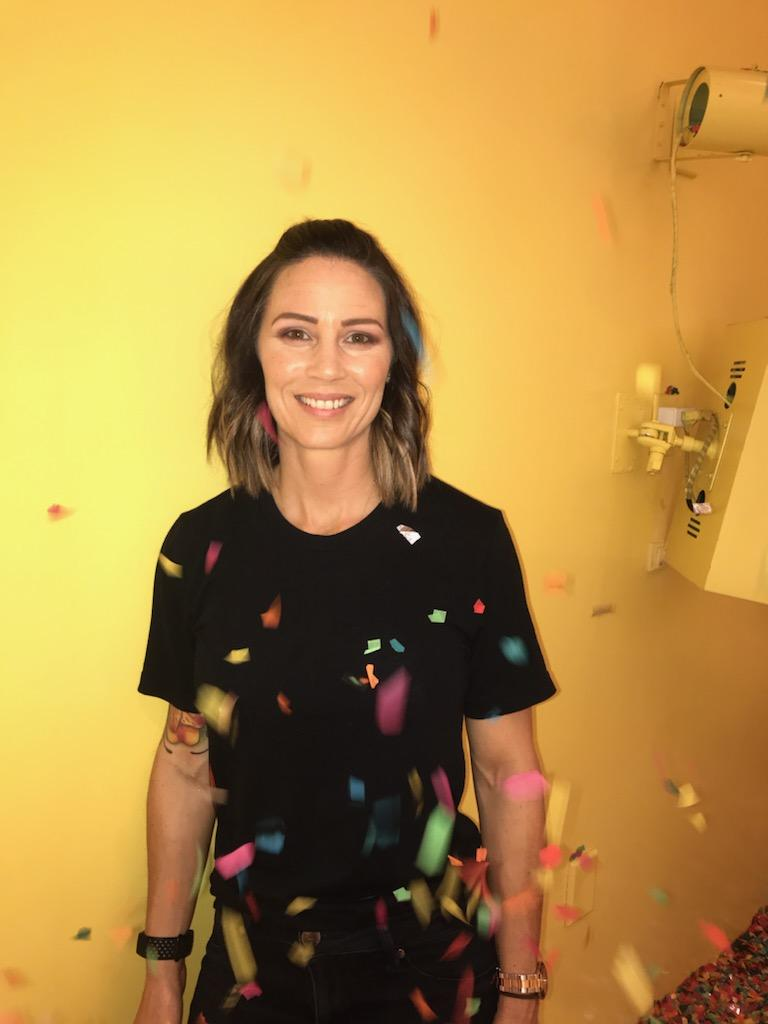
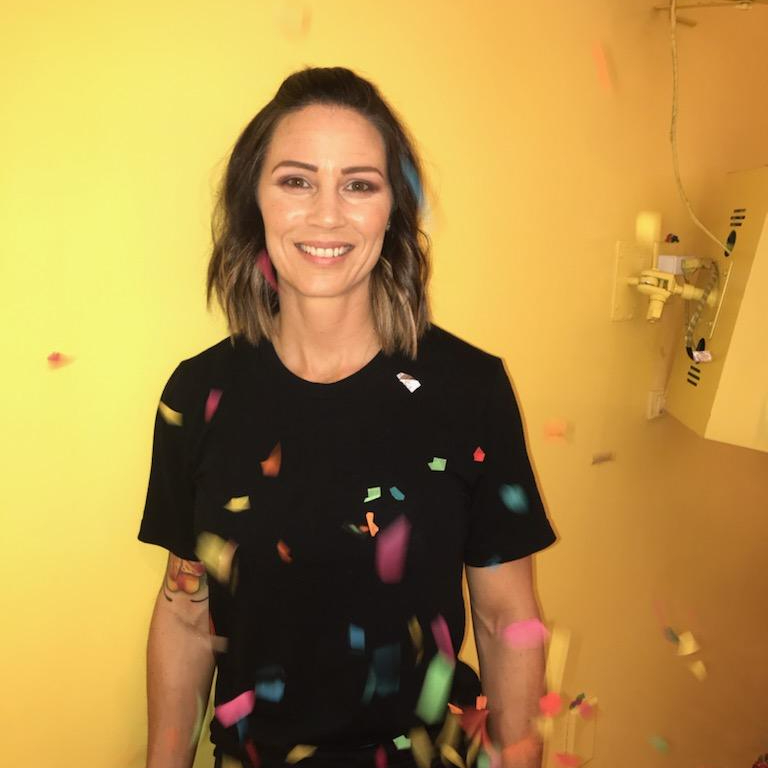
Changing name of profile img, adding action img

diff --git a/src/components/Hero.js b/src/components/Hero.js
@@ -13,7 +13,7 @@ const Hero = () => {
               <Link to="/contact" className='btn hero-btn'>Contact Me</Link>            </article>
             <article className='hero-img'>
               <StaticImage
-                src="../assets/tracy-tucker-profile-2.jpg"
+                src="../assets/tracy-tucker-profile.jpg"
                 placeholder='blurred'
                 width={300}
                 height={300}

diff --git a/src/css/main.css b/src/css/main.css
@@ -183,7 +183,6 @@ p {
 .bg-grey {
     background: var(--clr-grey-10);
 }
-/* social links */
 
 main {
     margin-top: -5rem;
@@ -321,8 +320,6 @@ Navbar
     }
     
   }
-
-/* social links */
 
 /*
 ===============
@@ -477,6 +474,9 @@ Single Components
         border-radius: var(--radius);
     } */
 }
+
+/*ABOUT*/
+
 
 /*
 ===============

diff --git a/src/components/About.js b/src/components/About.js
@@ -1,8 +1,9 @@
 import React from 'react'
+import { StaticImage } from 'gatsby-plugin-image'
 
 const About = () => {
   return (
-    <section className='section about'>
+    <section className='section'>
         <div className="section-center about-center">
             <article className='about-img'>
                 image goes here
